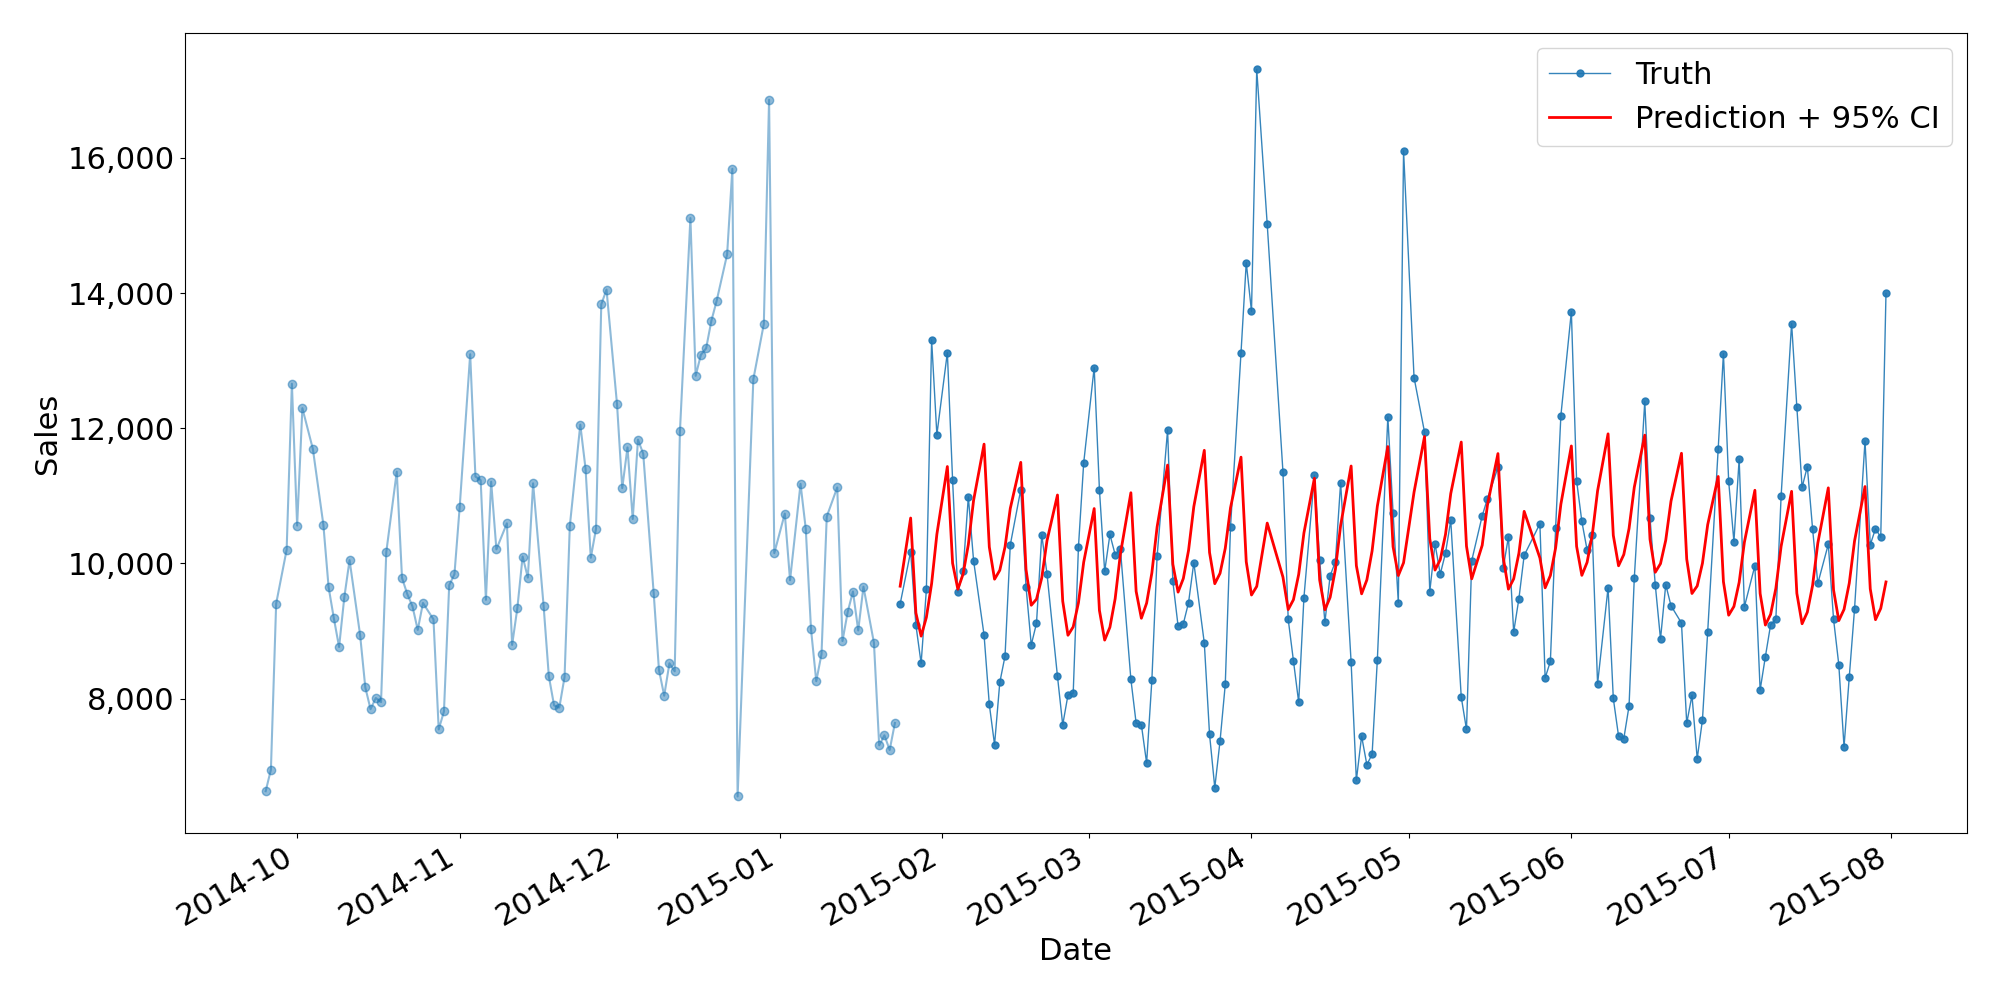
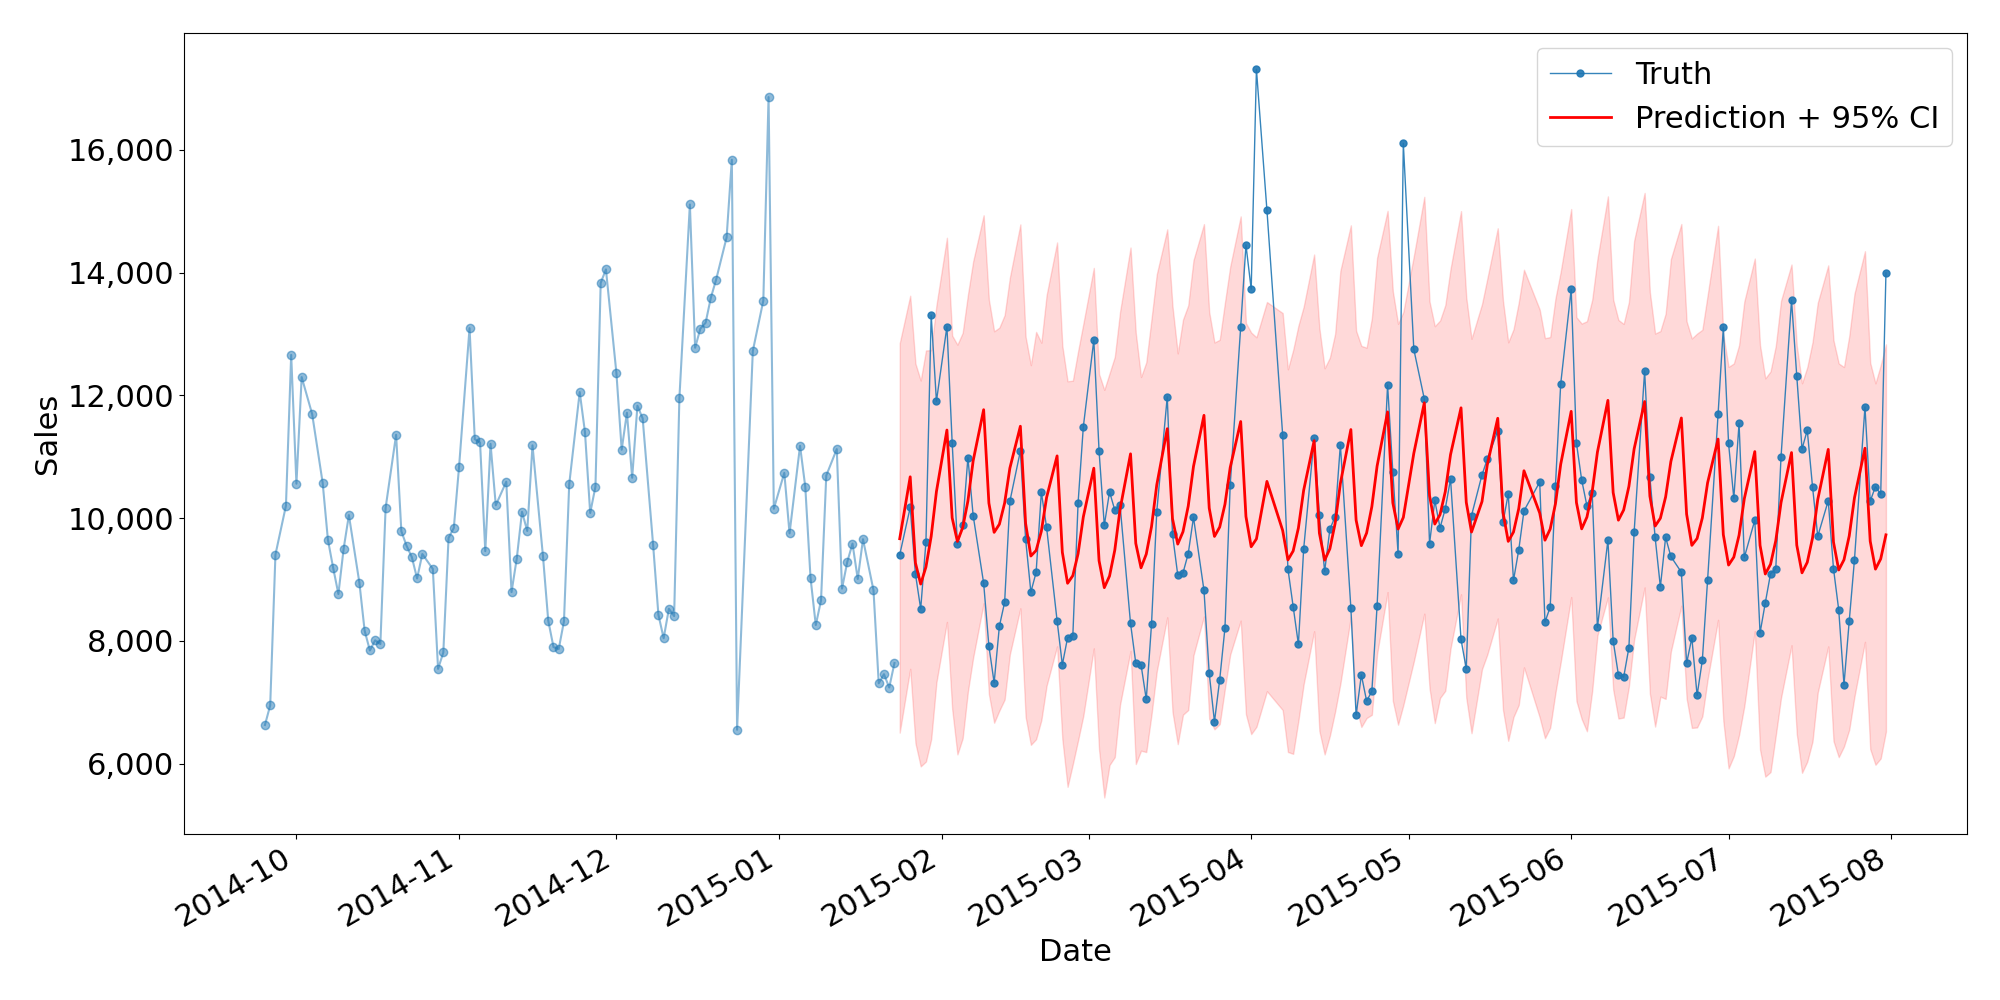
forecasting_example.py now working.

diff --git a/Chapter01/forecasting/forecasting_example.py b/Chapter01/forecasting/forecasting_example.py
@@ -112,7 +112,7 @@ def plot_forecast(df_train: pd.DataFrame, df_test: pd.DataFrame, predicted: pd.D
         print(f"First few values of predicted['yhat_upper']: {predicted['yhat_upper'].head()}")
         print(f"First few values of predicted['yhat_lower']: {predicted['yhat_lower'].head()}")
         ax.fill_between(
-            x=np.datetime64(predicted['ds']), 
+            x=predicted['ds'], 
             y1=predicted['yhat_upper'], 
             y2=predicted['yhat_lower'], 
             alpha=0.15, 
